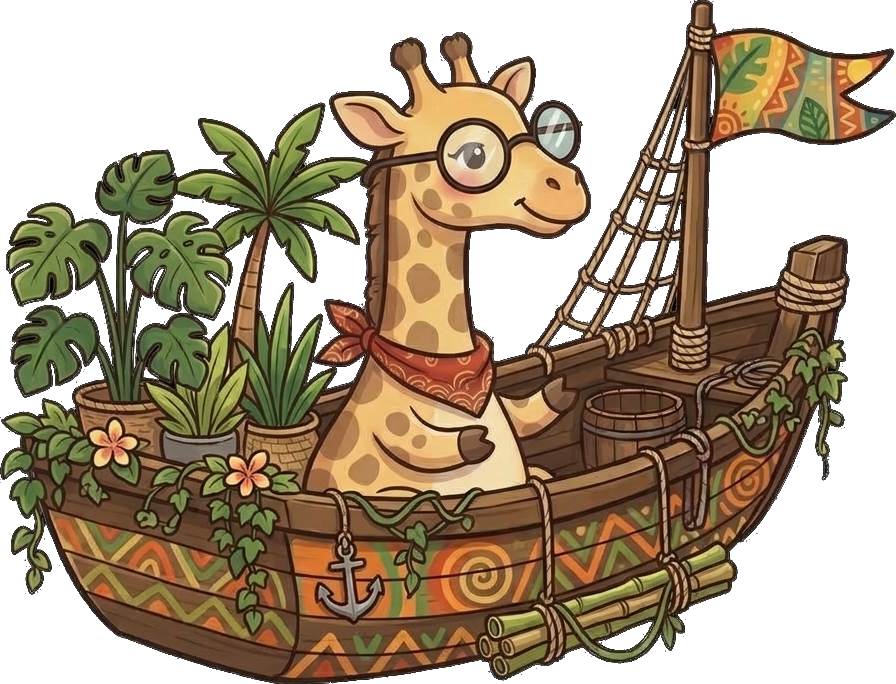
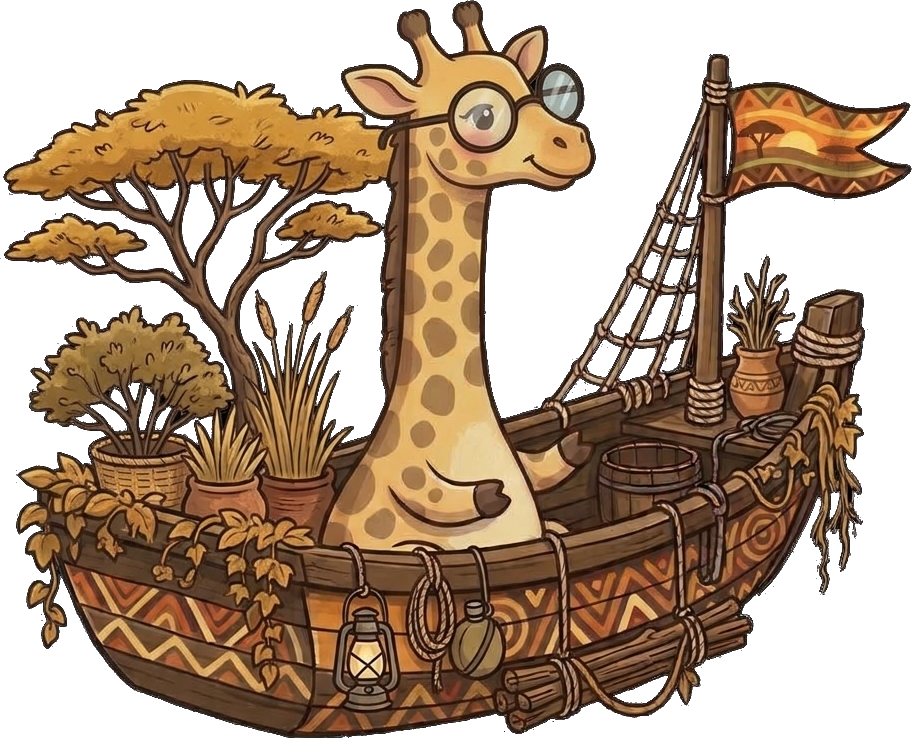
更新四隻角色素材

diff --git a/js/game.js b/js/game.js
@@ -14,11 +14,11 @@ import {
   WINDS, ORPHANS, PATTERN_TABLE, FLOWER_PATTERN_TABLE, countTiles, randomTileKind,
   evaluateHand, findWaits, formatWinBreakdown, isThirteenOrphans,
   withFlowers, flowerWin, flowerWinResult, sortPatternRows,
-} from './rules.js?v=1.4.159';
+} from './rules.js?v=1.4.160';
 import {
   wildcardWaitTiles, characterAbility, bonusFanFor, applyAbilityMoney,
   cooldownReady, startCooldown,
-} from './abilities.js?v=1.4.159';
+} from './abilities.js?v=1.4.160';
 
 const canvas = document.getElementById('game');
 const ctx = canvas.getContext('2d');
@@ -7583,13 +7583,13 @@ async function boot() {
       wildcardImage = new Image();
       wildcardImage.onload = () => resolve();
       wildcardImage.onerror = () => resolve();
-      wildcardImage.src = 'assets/tiles/wildcard.png?v=1.4.159';
+      wildcardImage.src = 'assets/tiles/wildcard.png?v=1.4.160';
     }),
     new Promise((resolve) => {
       inkSplashImage = new Image();
       inkSplashImage.onload = () => resolve();
       inkSplashImage.onerror = () => resolve();
-      inkSplashImage.src = 'assets/icons/ink-splash.png?v=1.4.159';
+      inkSplashImage.src = 'assets/icons/ink-splash.png?v=1.4.160';
     }),
   ]);
   game.images = { ...loaded.images, WILD: wildcardImage };

diff --git a/index.html b/index.html
@@ -9,7 +9,7 @@
 <link rel="preconnect" href="https://fonts.googleapis.com" />
 <link rel="preconnect" href="https://fonts.gstatic.com" crossorigin />
 <link href="https://fonts.googleapis.com/css2?family=Noto+Sans+TC:wght@400;500;700&display=swap" rel="stylesheet" />
-<link rel="stylesheet" href="css/style.css?v=1.4.159" />
+<link rel="stylesheet" href="css/style.css?v=1.4.160" />
 </head>
 <body>
 <canvas id="game" aria-label="釣魚遊戲畫面"></canvas>
@@ -359,6 +359,6 @@
 </section>
 
 <script src="https://cdn.jsdelivr.net/npm/peerjs@1.5.4/dist/peerjs.min.js" onerror="this.onerror=null;this.src='js/vendor/peerjs.min.js'"></script>
-<script type="module" src="js/game.js?v=1.4.159"></script>
+<script type="module" src="js/game.js?v=1.4.160"></script>
 </body>
 </html>

diff --git a/README.md b/README.md
@@ -1,6 +1,6 @@
 # 香港麻雀釣魚
 
-**立即遊玩：** https://timmylaikh.github.io/Mahjong-fishing/?v=1.4.159
+**立即遊玩：** https://timmylaikh.github.io/Mahjong-fishing/?v=1.4.160
 
 一個**純靜態**的香港麻雀釣魚小遊戲：在海底釣起麻將牌，湊成四組一將並胡牌。沒有框架、沒有打包步驟；所有規則判定都由 `js/rules.js` 這個純模組負責，因此 `node tests/rules.test.mjs` 可以直接在 Node 執行。
 

diff --git a/CHANGELOG.md b/CHANGELOG.md
@@ -1,3 +1,8 @@
+## 1.4.160 — 角色素材更新
+
+- 更新長頸鹿、小豬、熊貓、麻雀的角色圖片（Downloads 最新 PNG，裁切透明背景）。
+- 43 張已批准牌圖、玩法、計分與連線邏輯不變。
+
 ## 1.4.159 — 角色素材更新與技能按鈕修復
 
 - 更新長頸鹿、猴子、鳳凰、蜜蜂、烏龜的角色圖片；烏龜更名為玄武。
